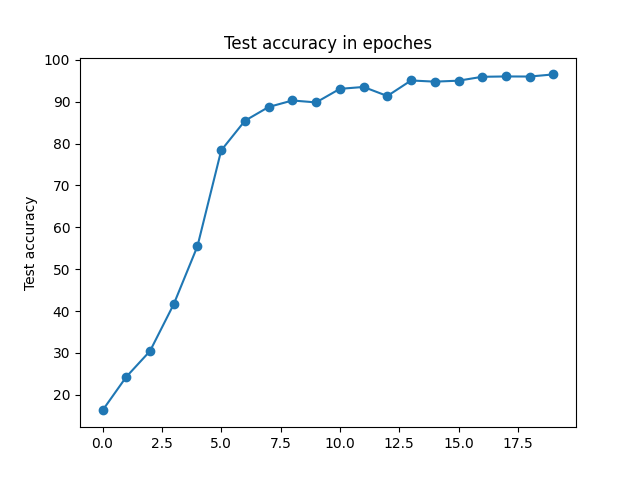
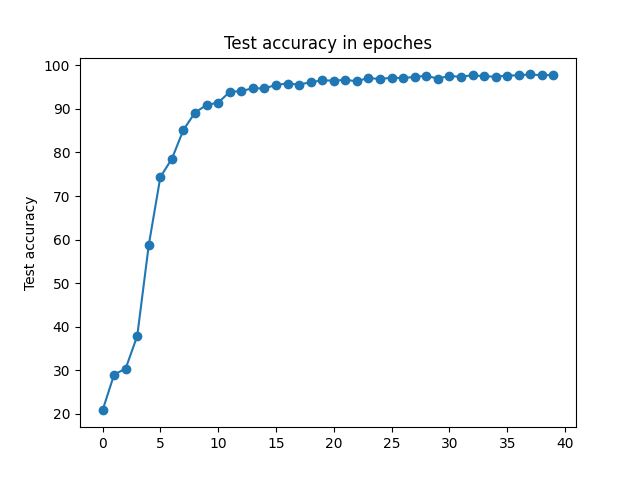
update a+s

diff --git a/AlexNet.py b/AlexNet.py
@@ -63,15 +63,15 @@ if __name__ == '__main__':
     #损失函数使用交叉熵
     cost = nn.CrossEntropyLoss()
     #优化计算方式选择：
-    #optimizer = torch.optim.SGD(model.parameters(),lr=1e-3)
-    optimizer = torch.optim.SGD(model.parameters(),lr=1e-3, momentum=0.9)
+    optimizer = torch.optim.SGD(model.parameters(),lr=1e-3)
+    #optimizer = torch.optim.SGD(model.parameters(),lr=1e-3, momentum=0.9)
     #optimizer = torch.optim.Adam(model.parameters(),lr=1e-3,betas=(0.9,0.99))
     model.to(device)
     #神经网络图结构绘制
     #g=make_dot(model(torch.rand(64,1,28,28)),params=dict(model.named_parameters()))
     #g.view()
 
-    epochSize = 20
+    epochSize = 40
     runLoss_list=[]
     testLoss_list=[]
     accuracy_list=[]
